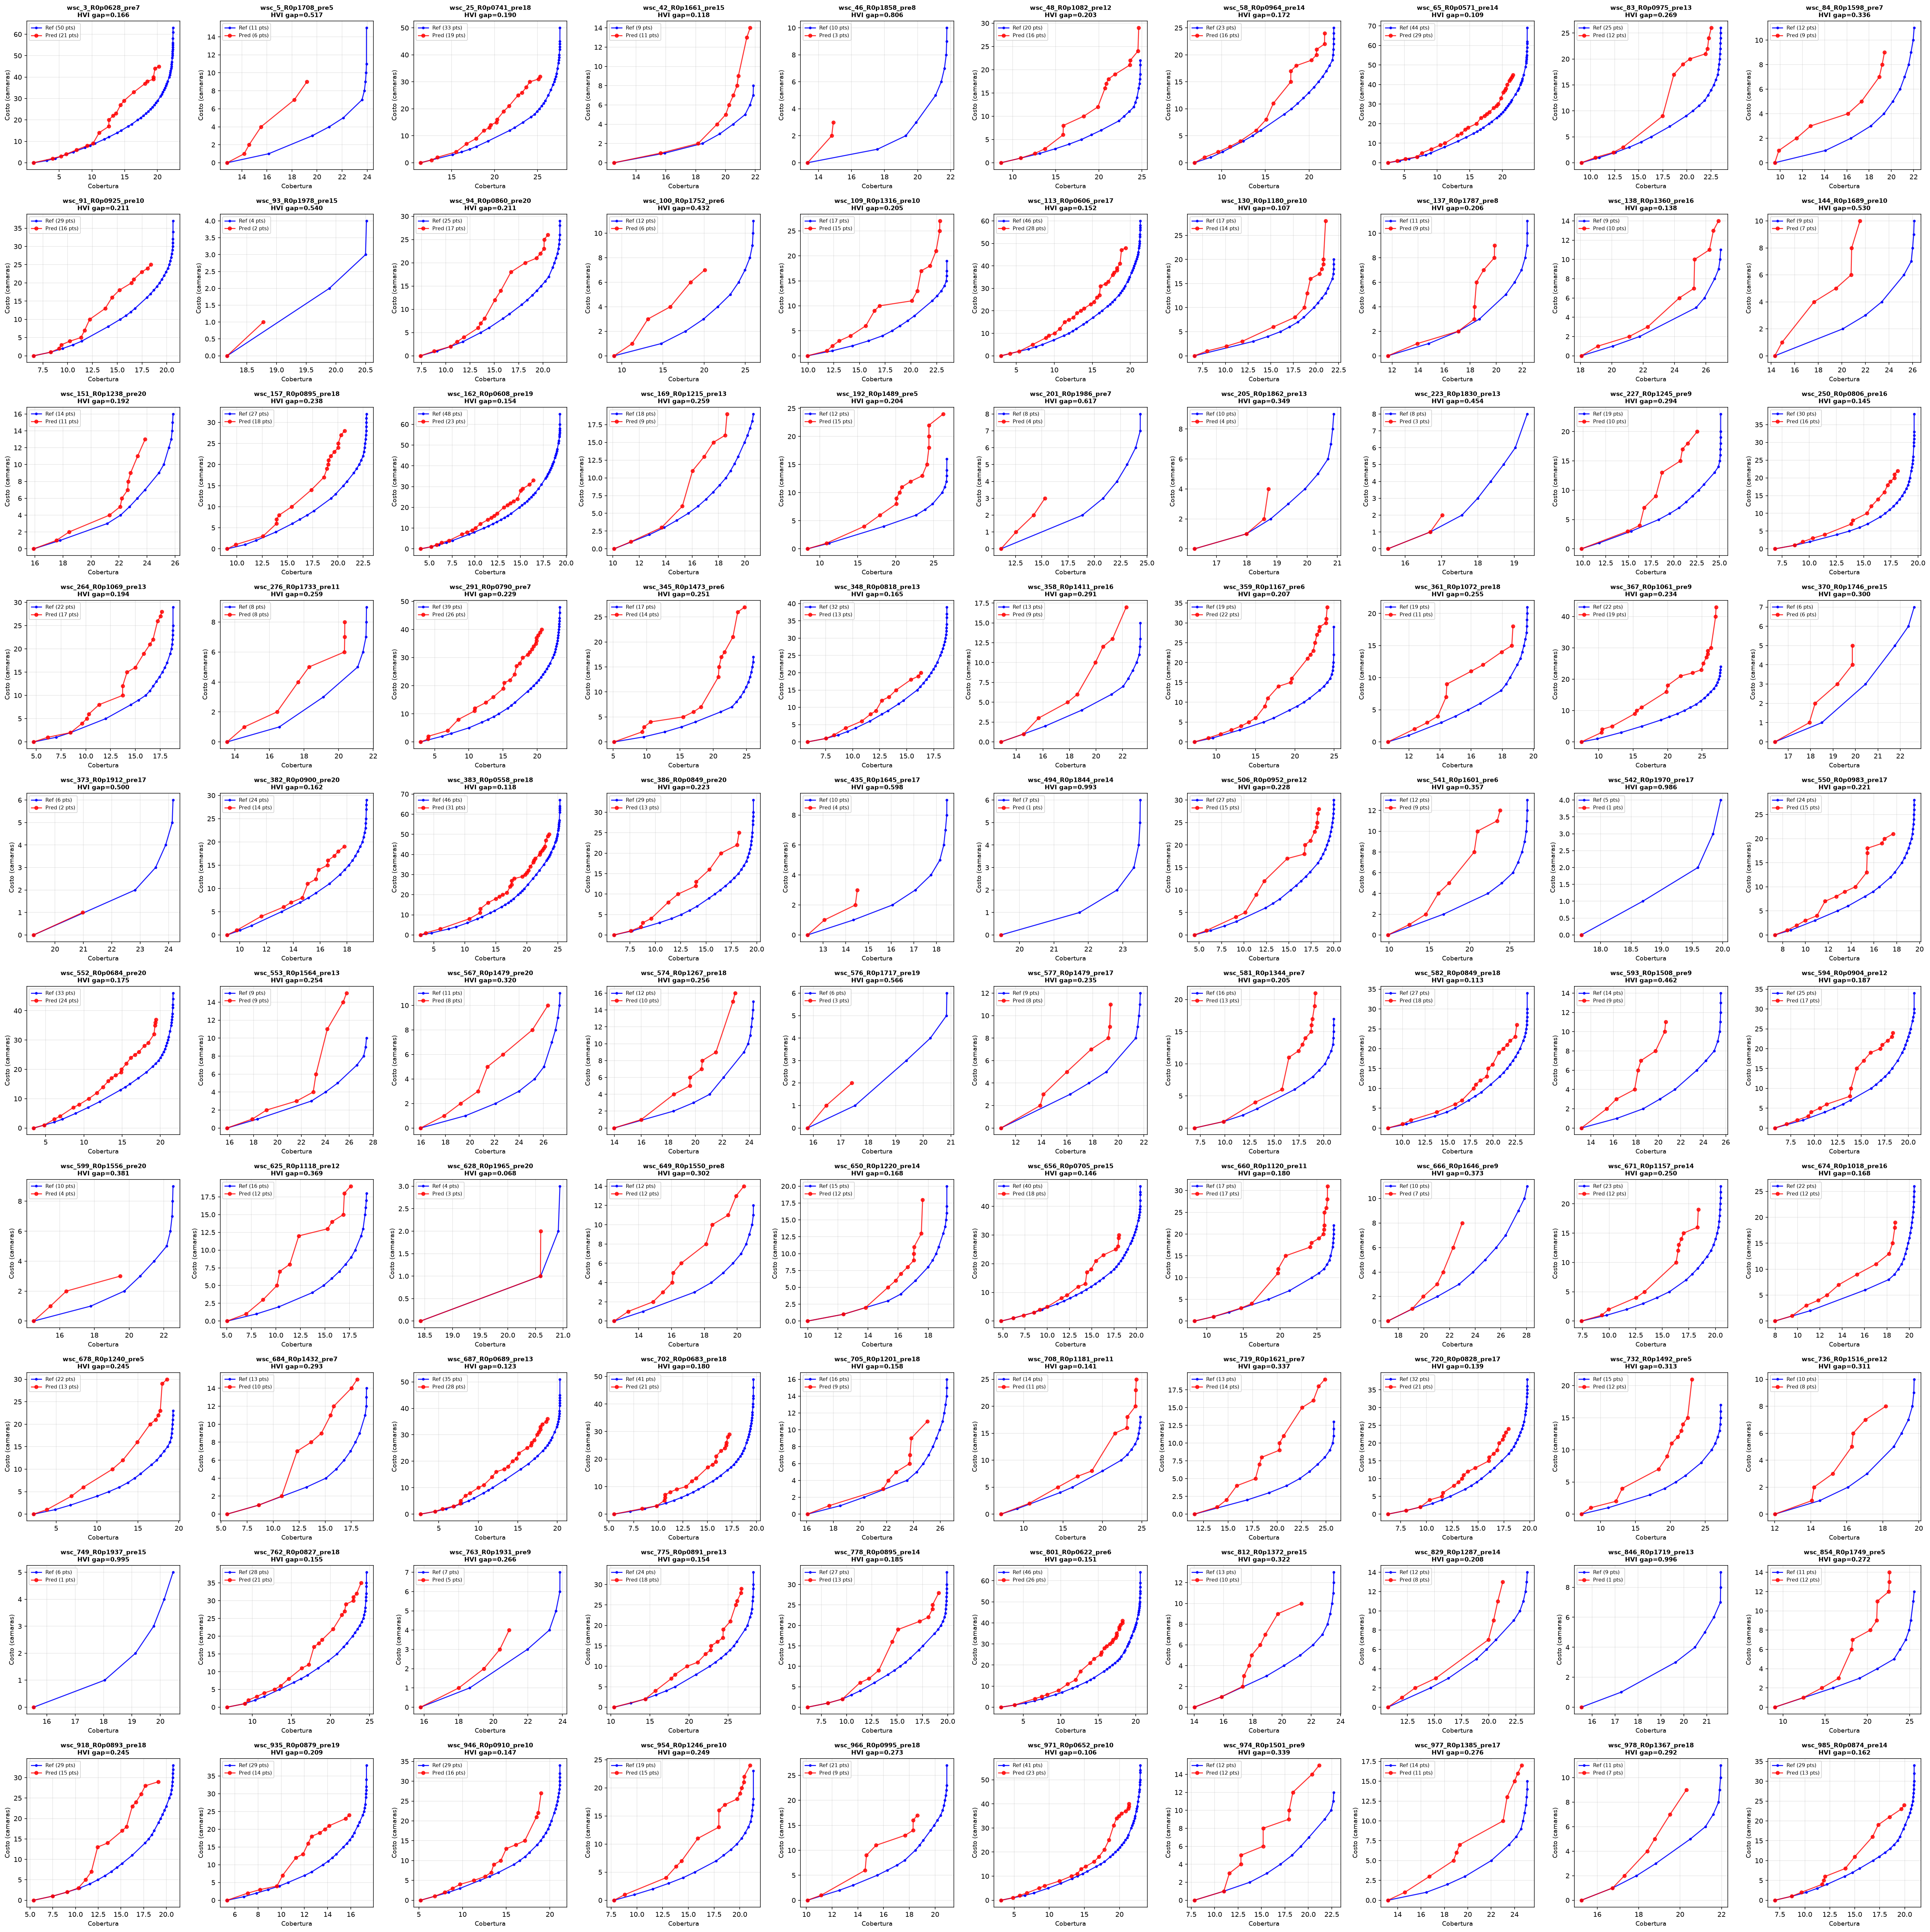
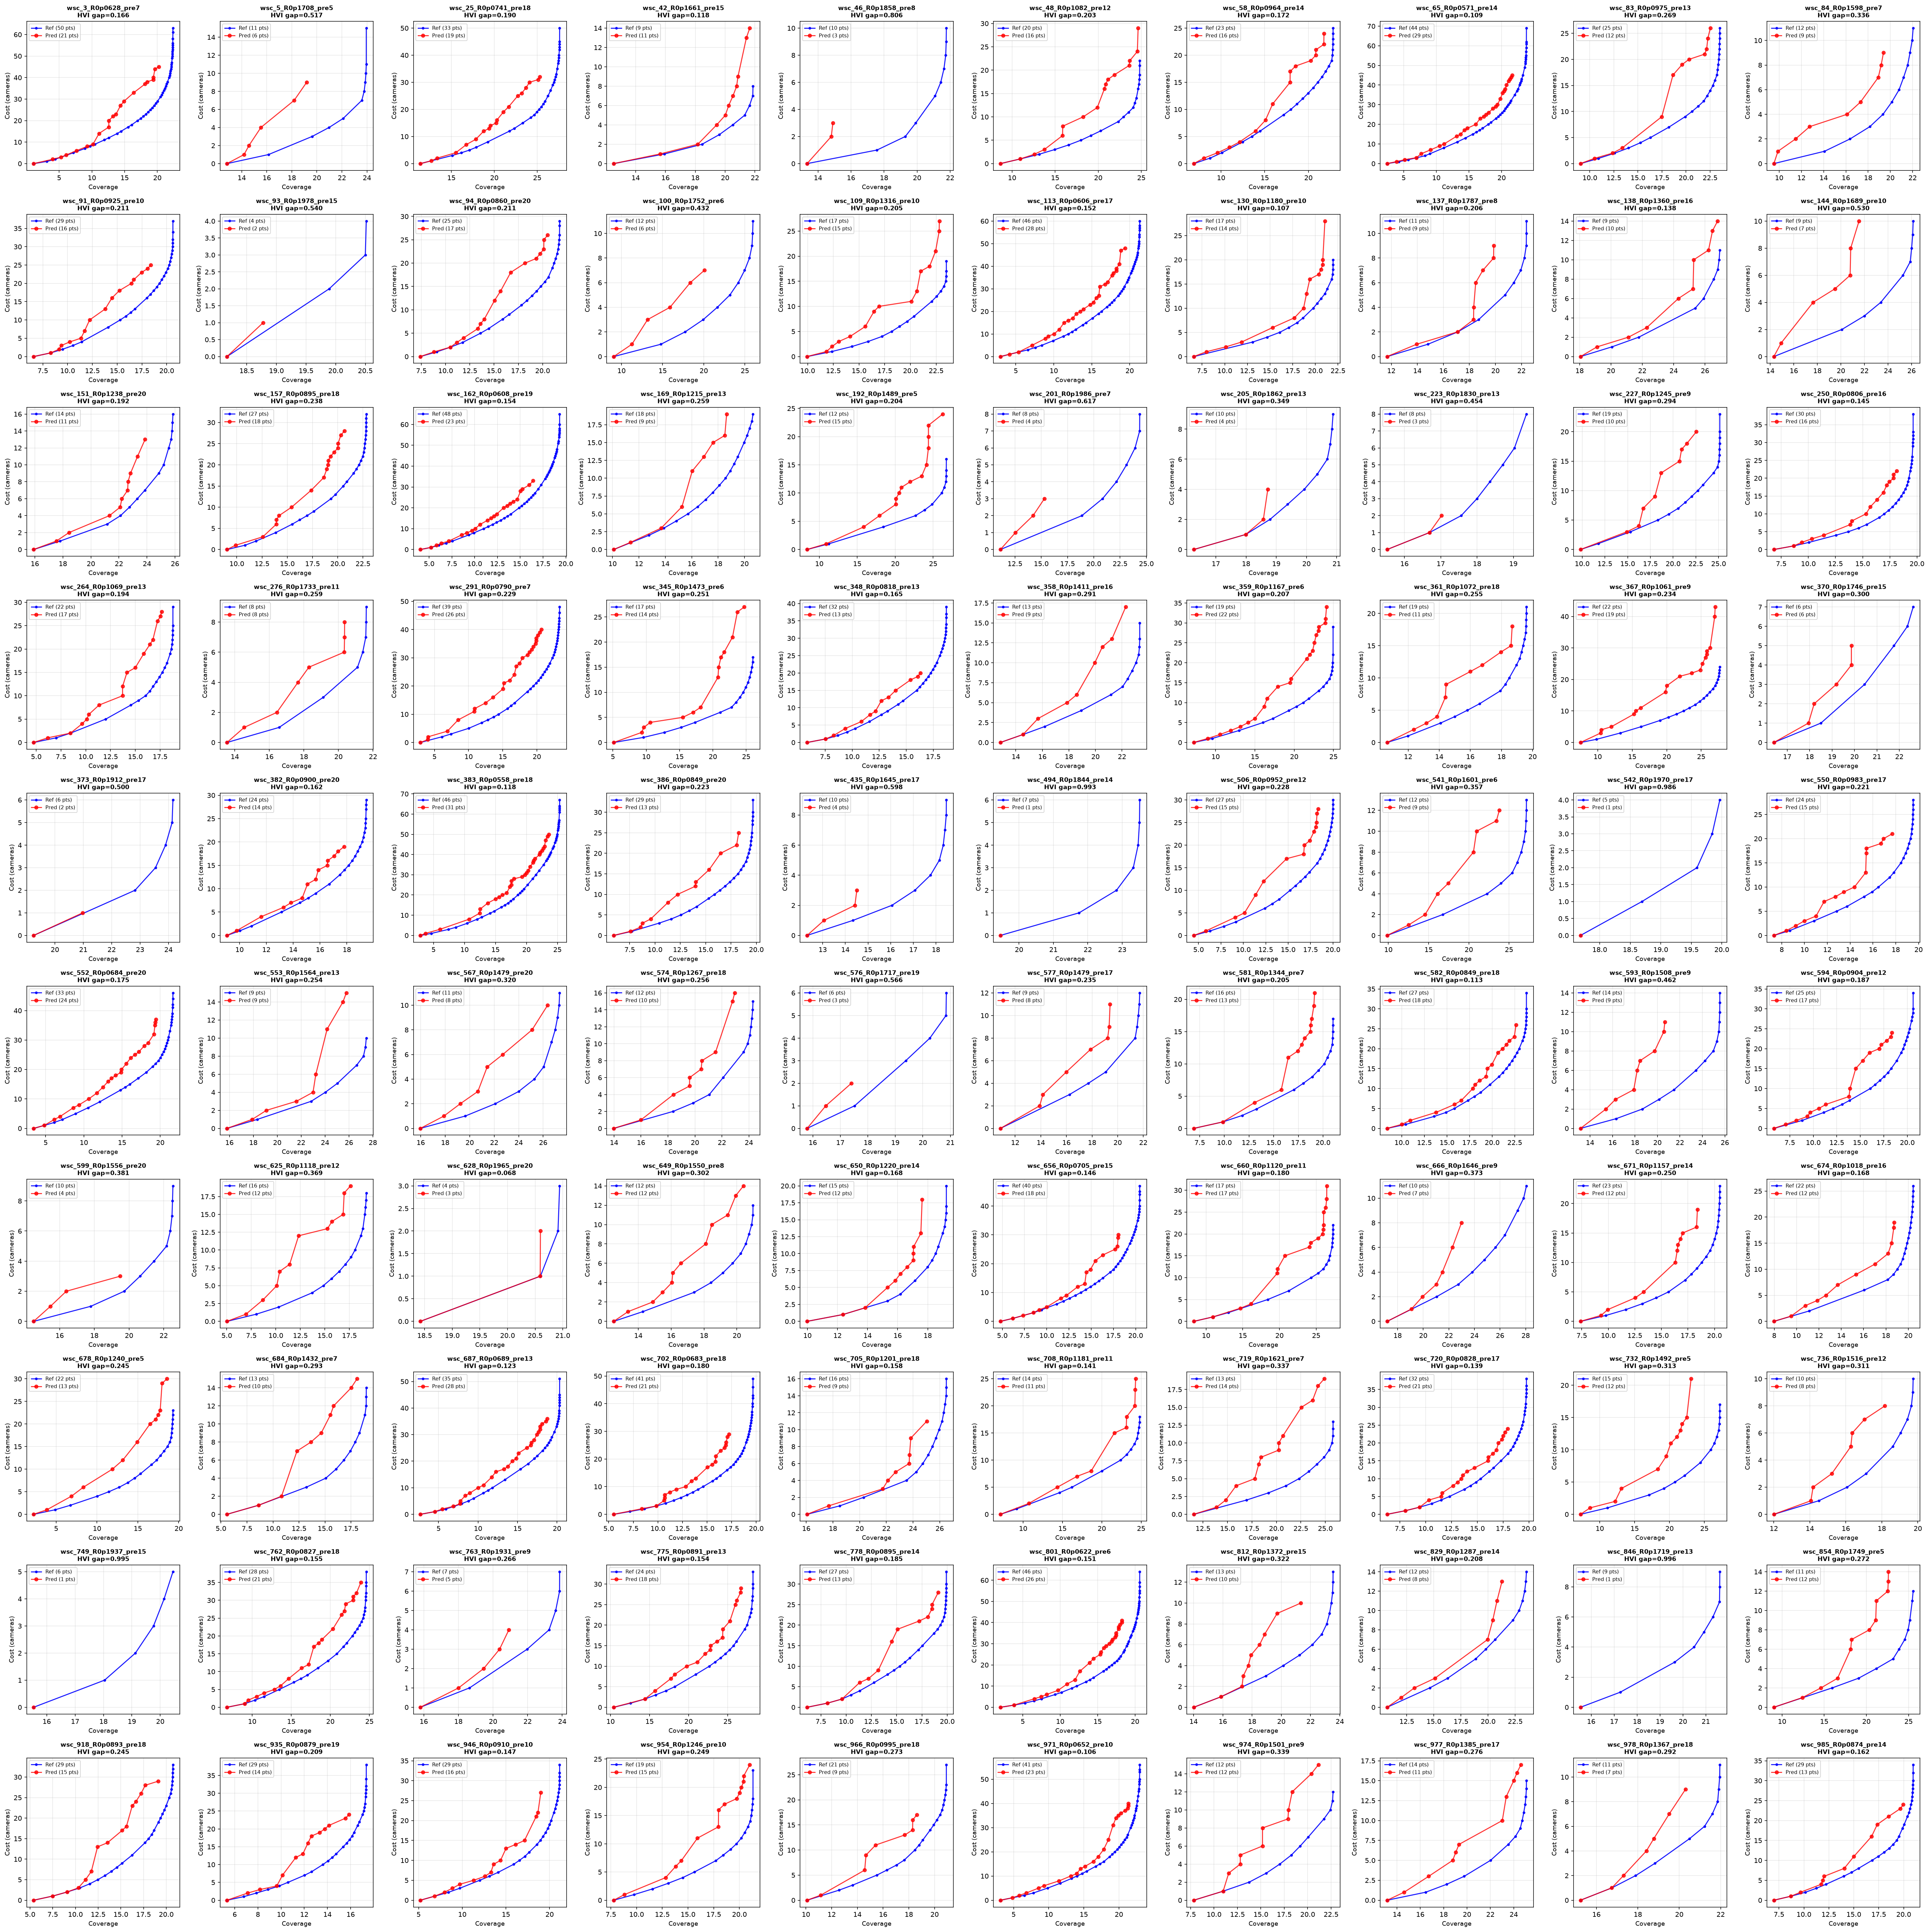
ordenado final

diff --git a/README.md b/README.md
@@ -22,7 +22,12 @@ Three sources of OCP instances are used. Raw sources go under `data/raw/`; runni
 `scripts/instances/build_instances.py` converts them into standardized AMPL `.dat`
 instances (coverage radius `R` and pre-installed count baked in) under `data/instances/`.
 
-**p-Hub Median benchmark** — 1,000 instances. Each instance merges 100 demand points and 50 candidate locations into a unified set of 150 points. Pre-installed cameras are drawn uniformly from {5, ..., 20} and the coverage radius `R` is sampled from (0.05, 0.20). Raw format: one folder per instance with the original coordinate CSVs.
+**p-Hub Median benchmark** — 1,000 instances, sourced from https://github.com/aleksandra-gro/Dataset. Each instance merges 100 demand points and 50 candidate locations into a unified set of 150 points. Pre-installed cameras are drawn uniformly from {5, ..., 20} and the coverage radius `R` is sampled from (0.05, 0.20). Raw format: one folder per instance with the original coordinate CSVs.
+
+Only 3 sample instances (`wsc_0`, `wsc_1`, `wsc_2`) are kept under version control at every
+pipeline stage (`raw/`, `instances/`, `graphs/`, `baselines/`) — there is no point pushing all
+1,000 instances (and their AMPL runs) to GitHub. Download the full benchmark from the source
+repo above and regenerate the rest locally with `scripts/instances/build_instances.py`.
 
 ```
 data/raw/phub/
@@ -81,14 +86,10 @@ notebooks/
     02_graph_construction.ipynb    Build per-instance proximity graphs → data/graphs/
     03_preference_matching.ipynb   ParetoDataset: ties graphs + preference vectors via dynamic matching
     04_model.ipynb                 PHN + GraphSAGE architecture
-    06_train.ipynb                 Training loop
-    07b_evaluate_hvi.ipynb         Hypervolume + preference sweep
-    08_xai.ipynb                   Preference-selective activation analysis
+    05_train.ipynb                 Training loop → checkpoints_*/
+    06_evaluate_hvi.ipynb          Hypervolume + preference sweep → data/results/
+    07_xai.ipynb                   Preference-selective activation analysis → data/figures/07_xai/
 ```
-
-The last three (`06_train`, `07b_evaluate_hvi`, `08_xai`) are next in line for the same
-renumbering/cleanup pass as the first four — expect them to become `05_train.ipynb`,
-`06_evaluate_hvi.ipynb` and `07_xai.ipynb`.
 
 ## Architecture
 